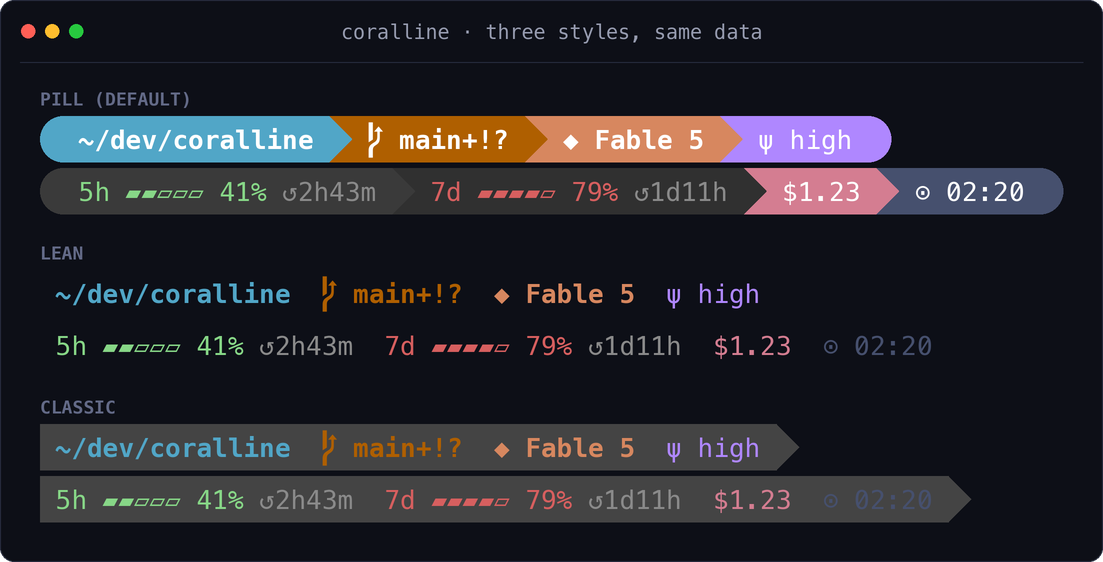
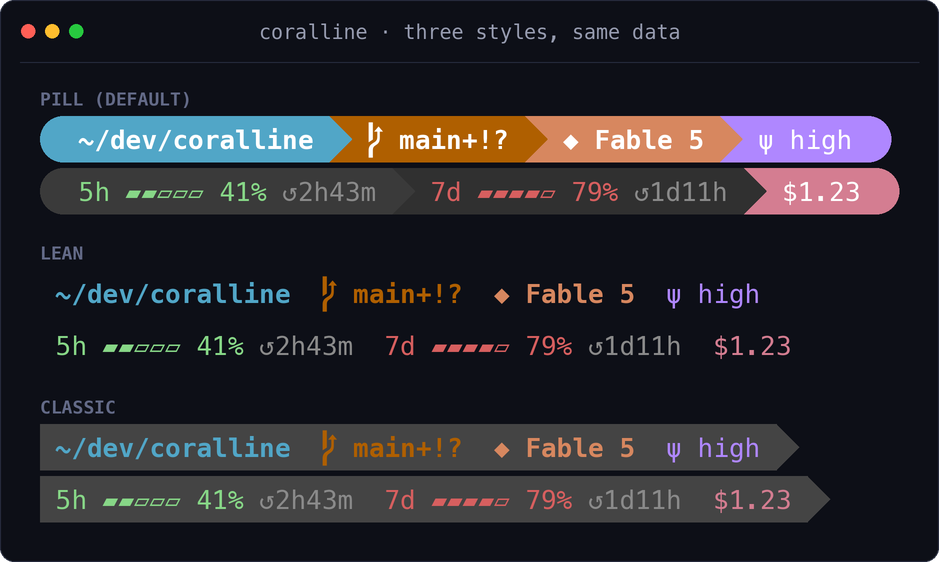
fix(readme): address review on the rebuilt README and its scenes
Review of the README rebuild found readability and labelling defects in the
new images and two gaps in the README text.

Scenes (tools/render-screenshots.py):
- styles.png drops the clock. In lean and classic, claude-coral draws the
  clock text in its dark navy pill colour, which all but vanished on the dark
  window and bar, so the comparison looked broken in two of three rows.
- themes.png shows 5h at 41% instead of 7d at 79%. lunar-pink's hot
  foreground is dark red on a near-black pill and was unreadable at the half
  size the README shows the grid at; the per-theme cards still show hot states.
- themes_cells() reads THEME_NOTES with .get(), so a theme added to THEMES
  without a note renders unlabelled instead of raising KeyError midway through
  a run that has already rewritten hero.png.
- The burn scene's first label says "burn in the statusline" rather than "the
  full statusline": that row omits effort and ctx.
- style-lean.png and style-classic.png and their scene functions are removed.
  No README embeds them since the rebuild, and no release note links them
  (checked every release body; only effort-segment.png, subagent-panel.png and
  theme-morning-haze.png are referenced there, and all three remain).

README.md / README.zh-TW.md:
- A caption under the hero says it shows the default segments plus the opt-in
  effort and cache, since the hero is no longer the plain default bar.
- The section nav links Rate-limit tools / 額度工具, the one h2 it skipped.
[…]

diff --git a/tools/render-screenshots.py b/tools/render-screenshots.py
@@ -457,7 +457,7 @@ FULL_ROW2 = 'VL_SEGMENTS2="limit5h limit7d burn cost clock"\n'
 
 def burn_blocks():
     return [
-        ("the full statusline, burn included",     run_burn("claude-coral",
+        ("burn in the statusline",                 run_burn("claude-coral",
             FULL_ROW1, CLIMB_MED, 31, 7800, extra_conf=FULL_ROW2)),
         ("empties before the 5h window resets",    run_burn("claude-coral",
             "limit5h burn", CLIMB_MED, 31, 10800)),
@@ -500,43 +500,26 @@ def hero_rows():
     return run_bar("claude-coral", "dir git model effort", with_cache(MID), rows)
 
 def themes_cells():
-    # Two short rows per theme, so two columns stay legible at README width;
-    # 7d at 79% shows each theme's hot color.
-    return [(t, THEME_NOTES[t],
+    # Two short rows per theme, so two columns stay legible at README width.
+    # 5h at 41% rather than 7d at 79%: some hot foregrounds (lunar-pink's dark
+    # red) are unreadable on their pill at half size; the cards show hot states.
+    return [(t, THEME_NOTES.get(t, ""),
              run_bar(t, "dir git model", MID)
-             + run_bar(t, "limit7d cost clock", MID))
+             + run_bar(t, "limit5h cost clock", MID))
             for t in THEMES]
 
 def styles_blocks():
+    # A style is a look, not a palette: the stock claude-coral colours ride every
+    # style (classic = lean text on VL_BG_BAR plus a trailing cap). No clock here:
+    # in lean and classic, claude-coral's clock text is its dark navy pill colour,
+    # which all but disappears on the dark window and bar.
     look = lambda s: f'VL_STYLE="{s}"\n'
     rows = lambda extra: (run_bar("claude-coral", "dir git model effort", MID, extra)
-                          + run_bar("claude-coral", "limit5h limit7d cost clock", MID, extra))
+                          + run_bar("claude-coral", "limit5h limit7d cost", MID, extra))
     return [
         ("pill (default)", rows("")),
         ("lean",           rows(look("lean"))),
         ("classic",        rows(look("classic"))),
-    ]
-
-def lean_blocks():
-    lean = 'VL_STYLE="lean"\n'
-    return [
-        ("daily drive",       run_bar("claude-coral", "dir git model clock", LOW, lean)),
-        ("context & limits",  run_bar("claude-coral", "ctx limit5h limit7d cost", MID, lean)),
-        ("running hot",       run_bar("claude-coral", "ctx limit5h limit7d cost", HIGH, lean)),
-        ("extras",            run_bar("claude-coral", "effort lines style duration stash", HIGH, lean)),
-        ("same data, pill style", run_bar("claude-coral", "dir git model clock", LOW)),
-    ]
-
-def classic_blocks():
-    # Classic is a look, not a palette: the stock claude-coral colours ride p10k's
-    # own dark bar (VL_STYLE="classic" → lean text on VL_BG_BAR + a trailing cap).
-    classic = 'VL_STYLE="classic"\n'
-    return [
-        ("daily drive",       run_bar("claude-coral", "dir git model clock", LOW, classic)),
-        ("context & limits",  run_bar("claude-coral", "ctx limit5h limit7d cost", MID, classic)),
-        ("running hot",       run_bar("claude-coral", "ctx limit5h limit7d cost", HIGH, classic)),
-        ("extras",            run_bar("claude-coral", "effort lines style duration stash", HIGH, classic)),
-        ("same data, lean (no bar)", run_bar("claude-coral", "dir git model clock", LOW, 'VL_STYLE="lean"\n')),
     ]
 
 def run_panel(theme, tasks, extra_conf=""):
@@ -601,8 +584,6 @@ def main():
                 ASSETS / "themes.png")
     render_image("coralline · three styles, same data", styles_blocks(),
                  ASSETS / "styles.png")
-    render_image("coralline · lean style", lean_blocks(), ASSETS / "style-lean.png")
-    render_image("coralline · classic style", classic_blocks(), ASSETS / "style-classic.png")
     render_image("coralline · responsive wrap", wrap_blocks(), ASSETS / "wrap-demo.png")
     render_image("coralline · subagent panel", panel_blocks(), ASSETS / "subagent-panel.png")
     for theme in THEMES:

diff --git a/README.md b/README.md
@@ -13,11 +13,13 @@ Pure Bash on macOS, Linux, and Git Bash, plus a native PowerShell renderer for W
 
 **English** · [繁體中文](./README.zh-TW.md)
 
-[Quick start](#quick-start) · [Themes](#themes) · [Styles](#styles-and-layout) · [Segments](#segments) · [Subagent panel](#subagent-panel) · [Configuration](#configuration) · [Install options](#install-options) · [Update](#update-reconfigure-and-uninstall)
+[Quick start](#quick-start) · [Themes](#themes) · [Styles](#styles-and-layout) · [Segments](#segments) · [Subagent panel](#subagent-panel) · [Rate-limit tools](#rate-limit-tools) · [Configuration](#configuration) · [Install options](#install-options) · [Update](#update-reconfigure-and-uninstall)
 
 </div>
 
 ![coralline under a Claude Code prompt: three rows of powerline pills showing directory, git, model, effort, context, prompt cache, rate limits, cost, and clock](./assets/hero.png)
+
+<p align="center"><sub>The default segments plus the opt-in <code>effort</code> and <code>cache</code>.</sub></p>
 
 <table>
 <tr>
@@ -203,7 +205,7 @@ Per-task model and context fields require Claude Code v2.1.205+. On v2.1.211, co
 
 ### Burn-rate segment
 
-![The burn segment in a full statusline, and each of its states: empties before reset, neck-and-neck, room to spare, never runs dry, idle, and warming up](./assets/burn-segment.png)
+![The burn segment in a statusline, and each of its states: empties before reset, neck-and-neck, room to spare, never runs dry, idle, and warming up](./assets/burn-segment.png)
 
 Add `burn` to `VL_SEGMENTS` to show the projected time until the binding 5h or 7d limit reaches 100%. It is off by default; while listed, it samples to `~/.claude/coralline/burn-5h.tsv`, and removing it stops writes. `CORALLINE_BURN_WINDOW` defaults to 600 seconds. The motivation and estimator contract are in [issue #17](https://github.com/Nanako0129/coralline/issues/17).
 

diff --git a/README.zh-TW.md b/README.zh-TW.md
@@ -13,11 +13,13 @@ macOS、Linux 與 Git Bash 上是純 Bash，Windows 另有原生 PowerShell rend
 
 [English](./README.md) · **繁體中文**
 
-[快速開始](#快速開始) · [主題](#主題) · [風格](#風格與版面) · [區段](#區段) · [Subagent 面板](#subagent-面板) · [設定檔](#設定檔) · [安裝選項](#安裝選項) · [更新](#更新重新設定與移除)
+[快速開始](#快速開始) · [主題](#主題) · [風格](#風格與版面) · [區段](#區段) · [Subagent 面板](#subagent-面板) · [額度工具](#額度工具) · [設定檔](#設定檔) · [安裝選項](#安裝選項) · [更新](#更新重新設定與移除)
 
 </div>
 
 ![Claude Code 輸入框下方的 coralline：三列 powerline 膠囊，顯示目錄、git、model、effort、context、prompt cache、額度、費用與時鐘](./assets/hero.png)
+
+<p align="center"><sub>圖中是預設區段，另外加上選用的 <code>effort</code> 與 <code>cache</code>。</sub></p>
 
 <table>
 <tr>
@@ -203,7 +205,7 @@ Bash install-only 與一般更新不會自行新增或刪除 `subagentStatusLine
 
 ### 消耗率區段
 
-![burn 區段在完整狀態列中的樣子，以及它的各種狀態：重置前耗盡、勢均力敵、餘裕充足、永遠用不完、閒置、暖機中](./assets/burn-segment.png)
+![burn 區段在狀態列中的樣子，以及它的各種狀態：重置前耗盡、勢均力敵、餘裕充足、永遠用不完、閒置、暖機中](./assets/burn-segment.png)
 
 把 `burn` 加入 `VL_SEGMENTS`，即可顯示綁定中的 5h 或 7d 額度到達 100% 的預估時間。它預設關閉；列在清單中時會把樣本寫入 `~/.claude/coralline/burn-5h.tsv`，移除後停止寫入。`CORALLINE_BURN_WINDOW` 預設為 600 秒。動機與 estimator 契約見 [issue #17](https://github.com/Nanako0129/coralline/issues/17)。
 
